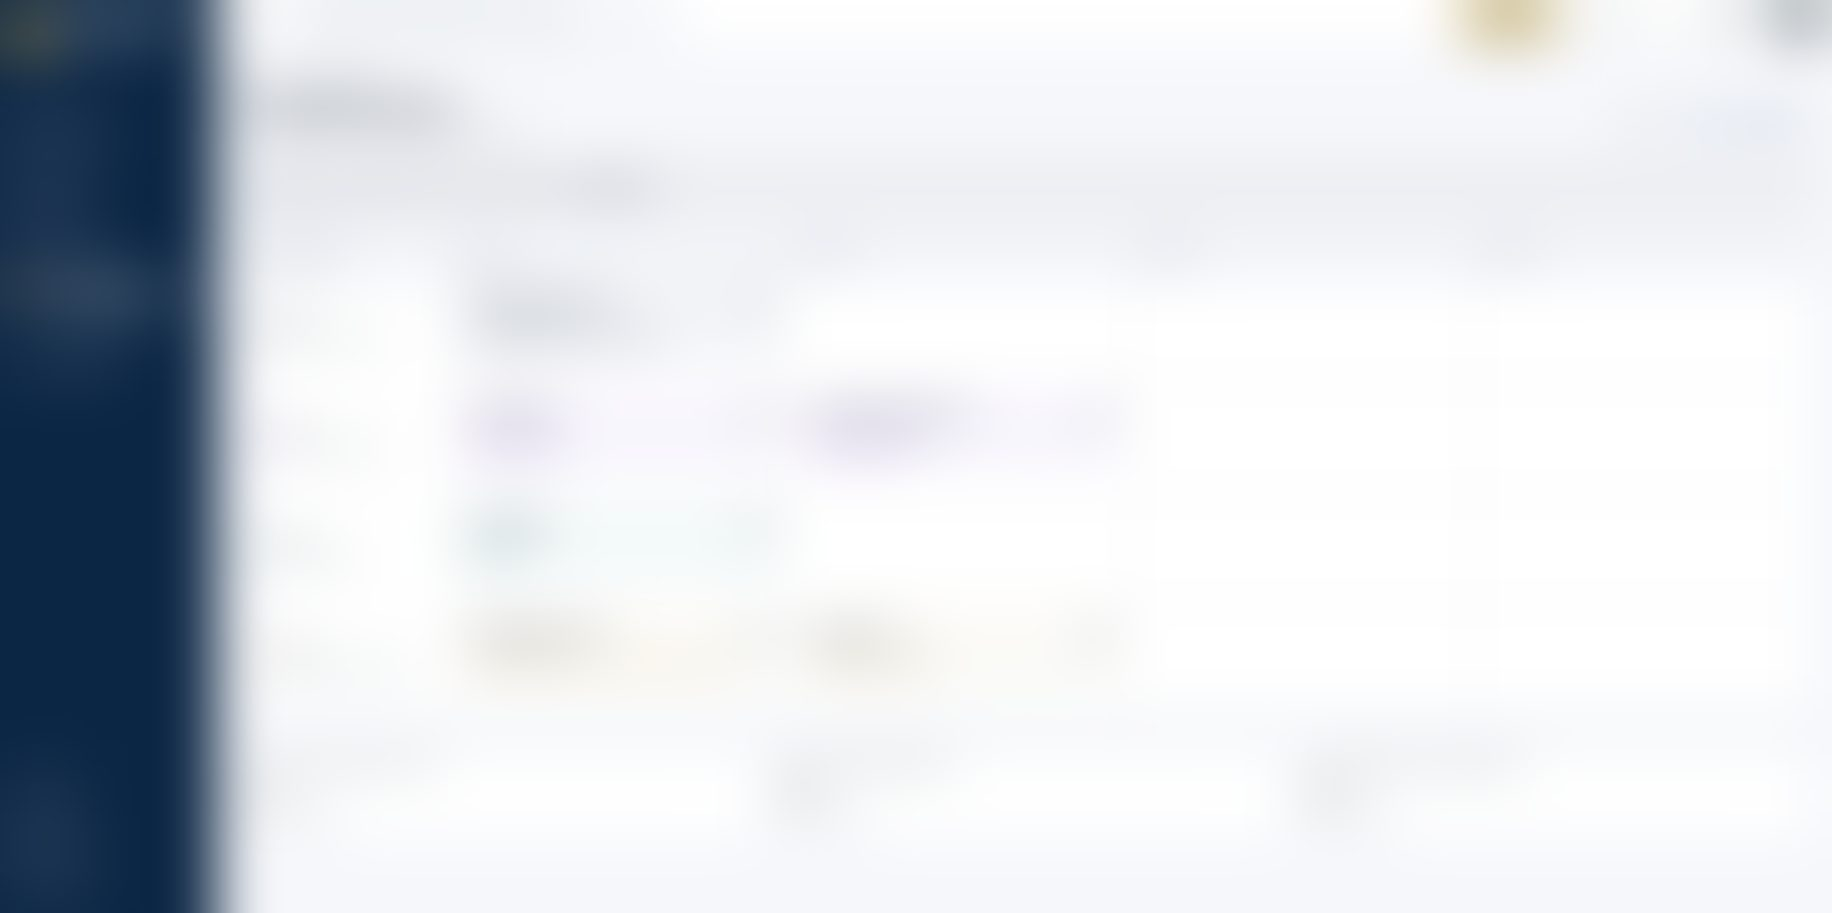
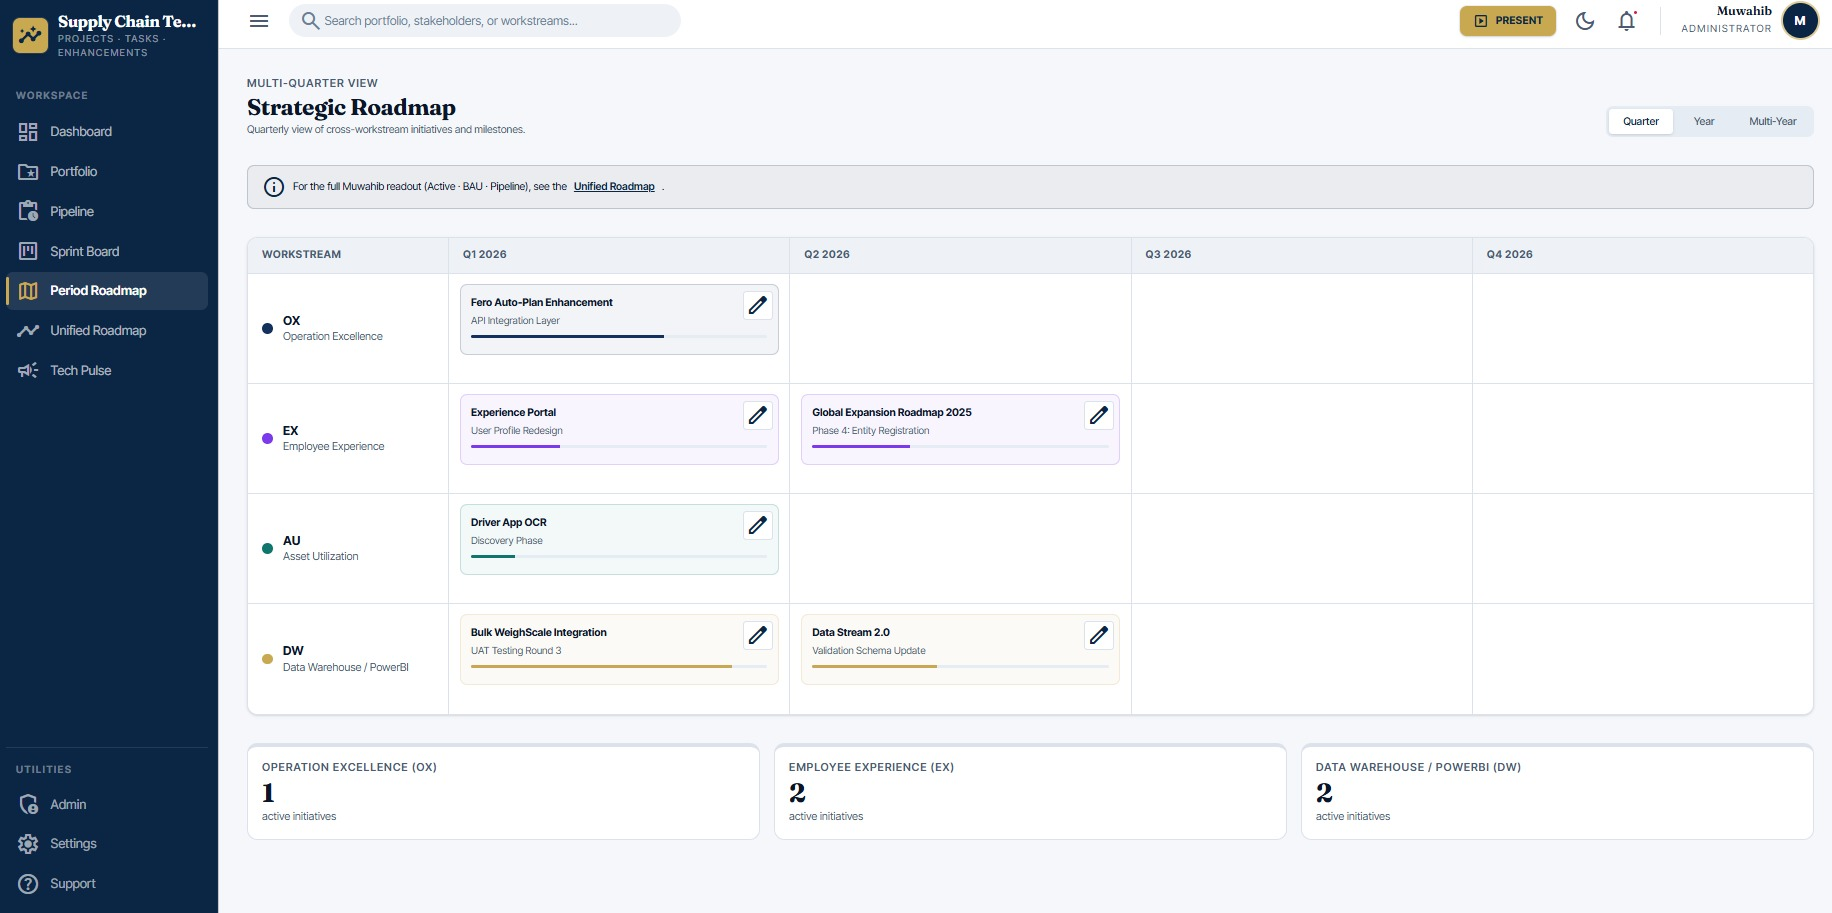
Restore SCM Hub screenshots to sharp
Per decision, scmhub/ (6 screens) goes back to the sharp originals — its
data is acceptable to show. execintel/ stays fully blurred (executive
intel with project/deal names). All fero region-blur and the rest of the
redaction posture are unchanged.

Audit clean: 86/86 assets resolve, 0 broken images.

Claude-Session: https://claude.ai/code/session_012PYoG9vEsXqpUYbTtokhaK

diff --git a/README.md b/README.md
@@ -224,12 +224,12 @@ Two of these are decisions, not code — they need Abdul's input:
     user names/emails, depot/site names, project names/IDs, and the Depots
     directory. Kept sharp: order/asset codes, statuses, distances, aggregate
     KPI dashboards, and all chrome — so the screens still read as a real product.
-  - **Full-blur (`scmhub/` 6, `execintel/` 4)** — these internal PM/intel tools
-    are wall-to-wall project and owner names, so the whole image is blurred
+  - **Full-blur (`execintel/` 4)** — this executive-intel tool is wall-to-wall
+    project / deal names, so the whole image is blurred
     (`scripts/redact-screenshots.py`).
-  - **Left sharp:** the fero aggregate dashboards (no PII), `itemcode/`
-    (diagrams), `tharwa/` (personal venture, sample data), and all `deepdive/*`
-    case studies (concepts/teardowns).
+  - **Left sharp:** `scmhub/` (kept by decision), the fero aggregate dashboards
+    (no PII), `itemcode/` (diagrams), `tharwa/` (personal venture, sample data),
+    and all `deepdive/*` case studies (concepts/teardowns).
   - **Still open:** the real *metrics and names* in `src/data/` are untouched
     (standard on a resume, but tell me if any should be generalised).
   - **⚠ git history:** the sharp originals were committed before redaction, so
